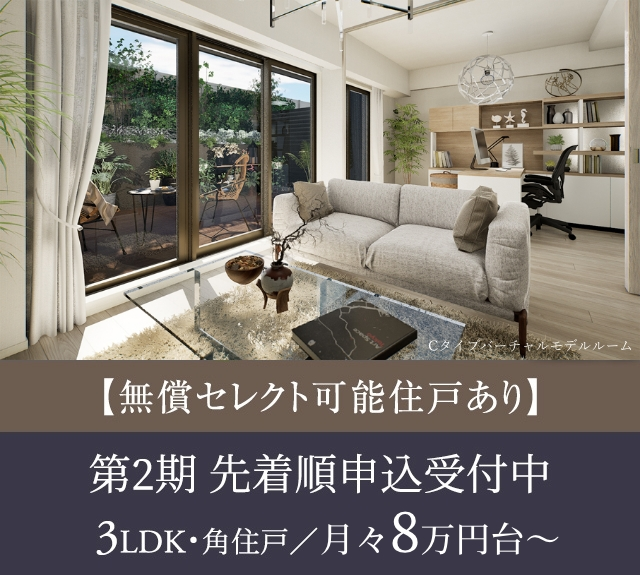
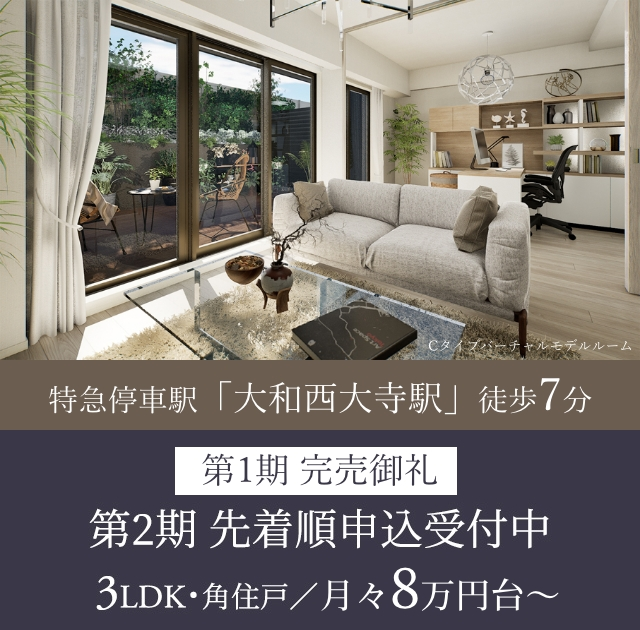
no message

diff --git a/htmlmail/230807/member.html b/htmlmail/230807/member.html
@@ -285,12 +285,11 @@ strong {
     </tr>
     <tr>
       <td align="center" style="line-height: 1.3; padding-top: 20px;">
-        <span style="font-size: 70%">※1.2023年3〜5月発売分において、<br>「シエリア西大寺」は奈良県内の新築分譲マンションで「成約戸数が奈良県No.1」です。<br>（2023年7月MRC調べ）</span>
         </td>
     </tr>
 	<tr>
         <td align="center" class="title main" style="line-height: 1.3;">
-【こどもエコすまい事業100万円補助】<br>＼延長決定！／
+【こどもエコすまい事業100万円補助】<br>まもなく終了！
         </td>
     </tr>
 		<tr>
@@ -311,7 +310,7 @@ strong {
 <span style="color: #cc0000">「バーチャルモデルルーム」</span>を公開しました。<br>まるで実際にその場に立っているかのような感覚を、<br>是非ご体感ください。<br><br>
 <span style="color: #cc0000">＜ QUOカードPay2000円分 ＞<br><b>ご来場者プレゼントキャンペーン</b></span>も<br>ご好評につき<span style="color: #cc0000">8/28（月）</span>まで延長！<br><br>
 現在、第2期先着順にて申込受付中！<br>3LDK 角住戸　月々8万円～。<br>
-無償セレクトが可能な住戸もございますので、<br>
+<span style="color: #cc0000">駐車場優先権利付きの住戸</span>もございますので、<br>
 引き続きご関心をお持ちの方は、<br>
 シエリアサロン西大寺にて<br>
 モデルルーム見学（予約優先制）を<br>ご案内させていただいております。
